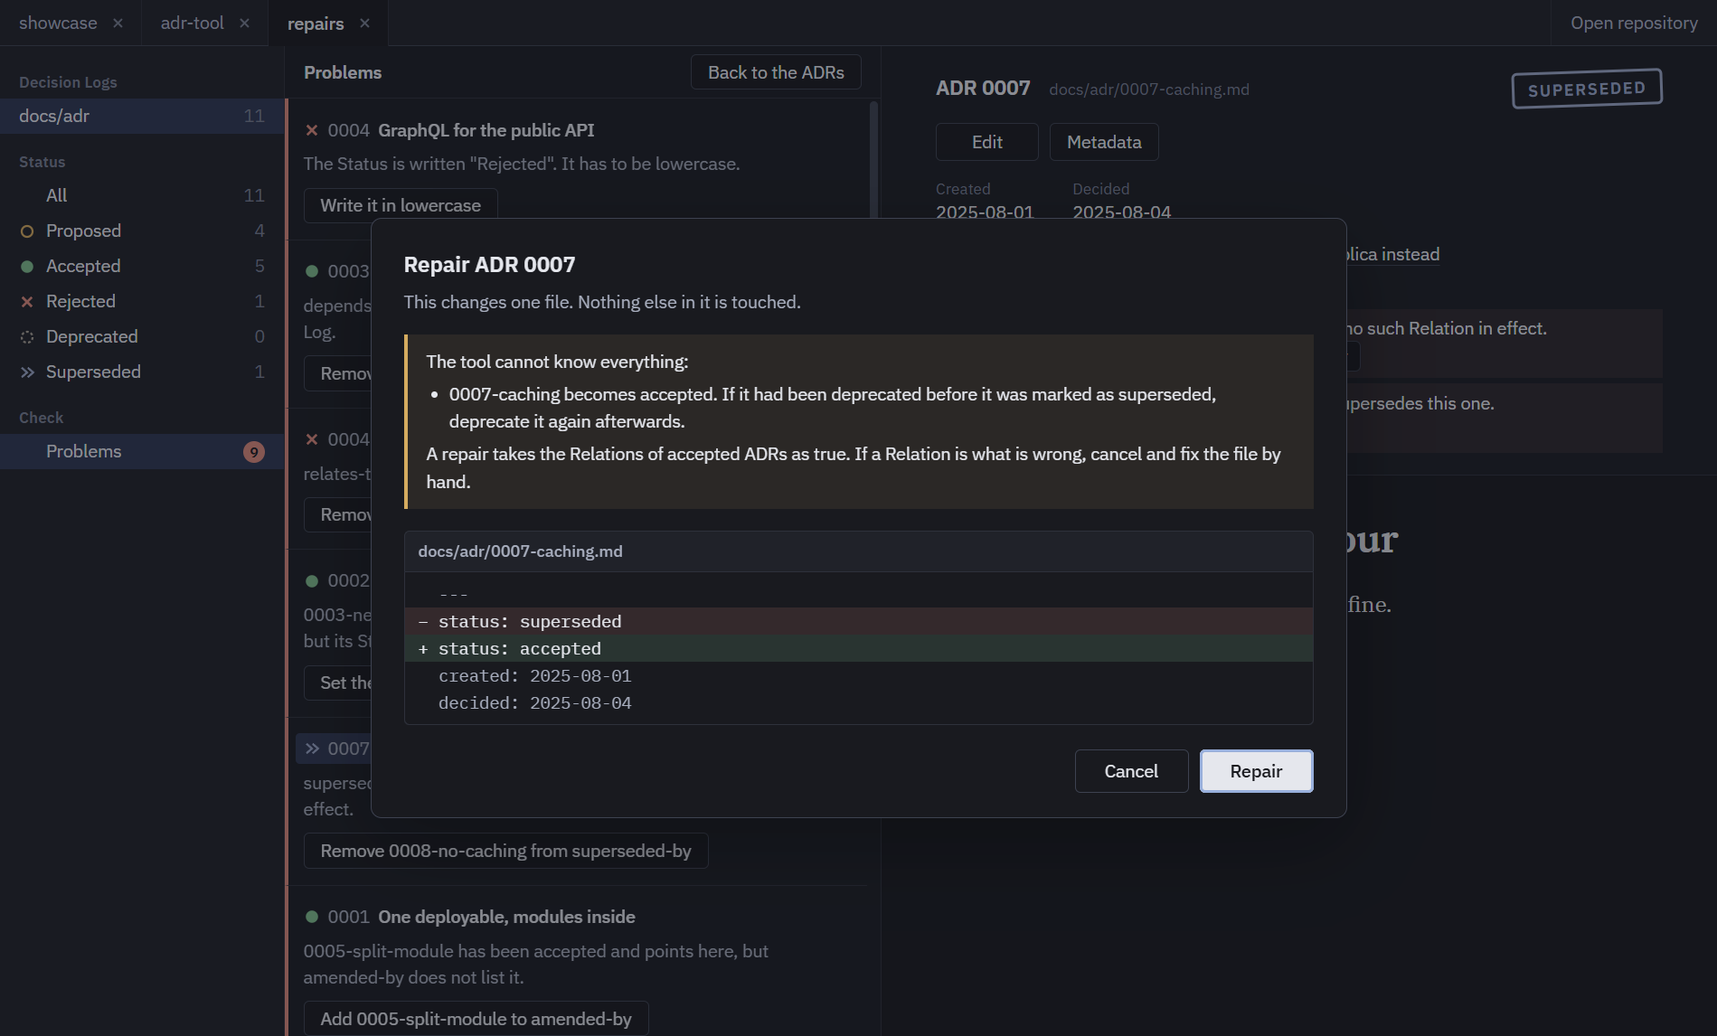
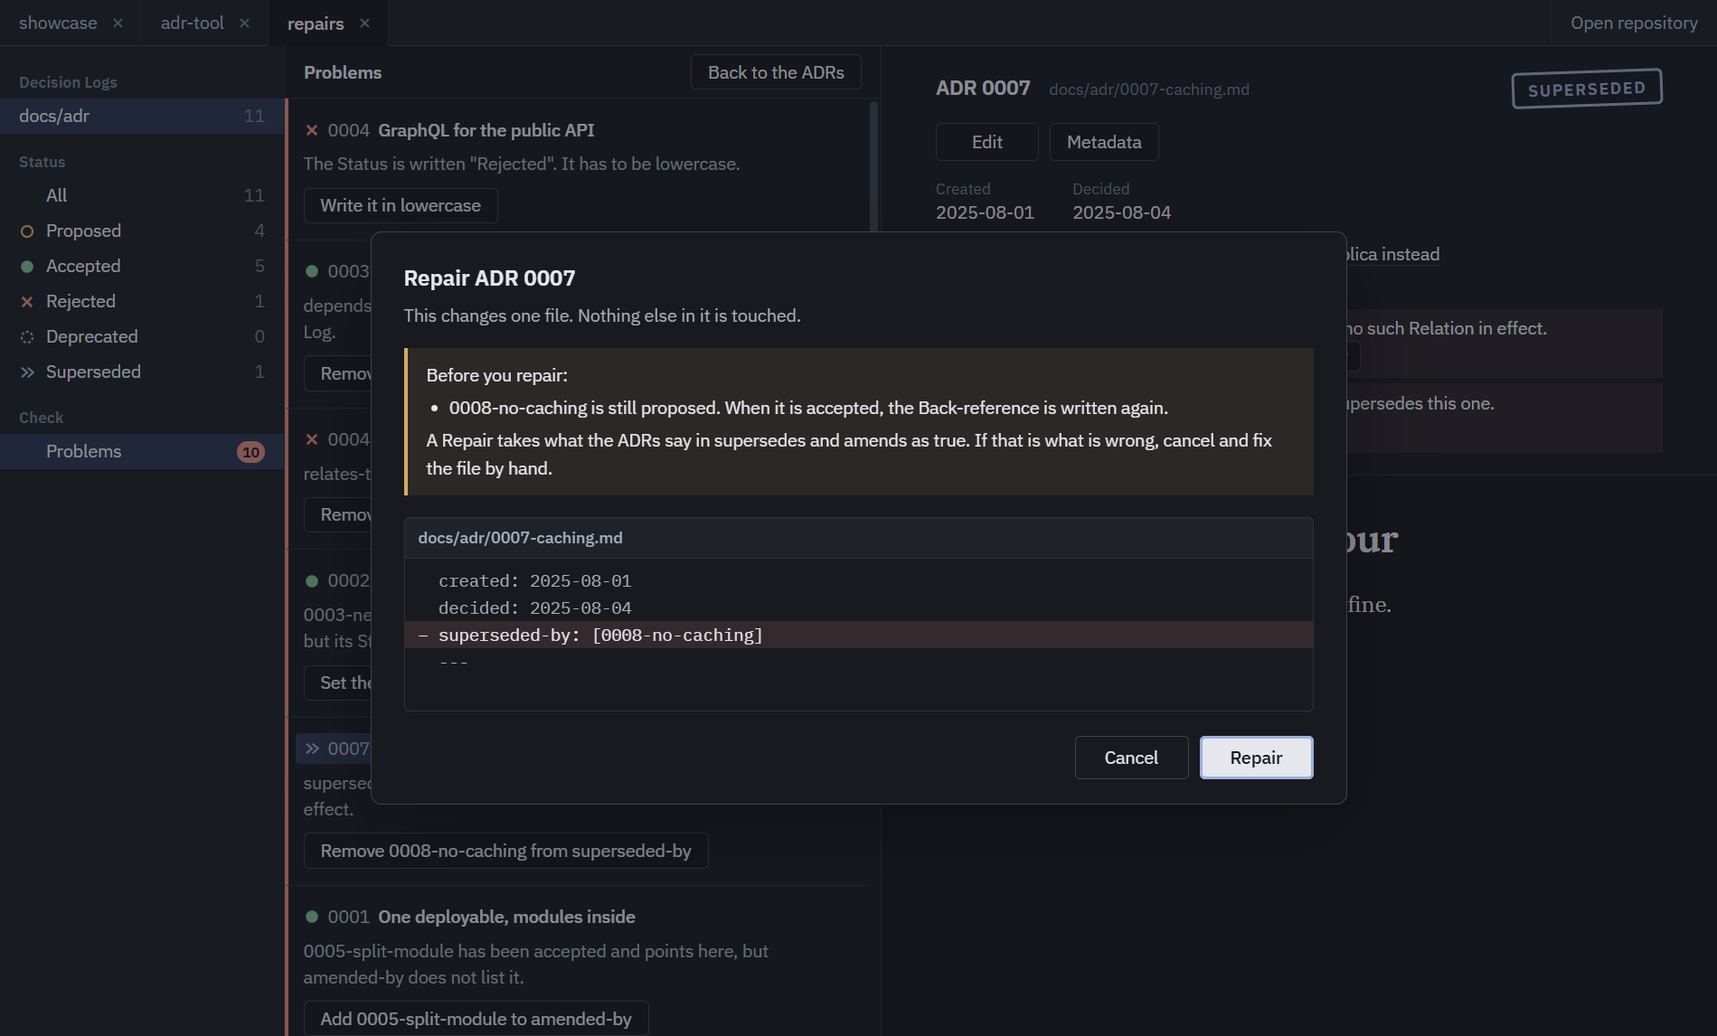
After review: a Repair says what it rests on, and leaves a Status alone that it cannot judge

diff --git a/packages/core/src/lifecycle/repair.ts b/packages/core/src/lifecycle/repair.ts
@@ -1,3 +1,4 @@
+import type { Adr } from '../adr/adr'
 import type { Plan } from '../change/change-set'
 import type { FileSystem } from '../fs/port'
 import type { DecisionLog } from '../log/load'
@@ -5,6 +6,7 @@ import type { MetadataKey } from '../metadata/keys'
 import { addToList, removeFromList, setScalar } from '../metadata/write'
 import { groupProblems } from '../problems/group'
 import type { BackReferenceKey, Problem } from '../problems/problem'
+import { BACK_REFERENCE_KEYS } from '../relation'
 import { plan } from './draft'
 import { planRenumber } from './renumber'
 import { writable } from './rules'
@@ -40,8 +42,8 @@ export type Repair =
   | { readonly kind: 'renumber'; readonly adr: string }
 
 /**
- * The repairs of a Problem. None: the tool cannot know what was meant, a person fixes the
- * file. Several: any one of them repairs the Problem, and the person says which.
+ * The Repairs of a Problem. None: the tool cannot know what was meant, a person fixes the
+ * file. Several: any one of them is a step, and the person says which.
  */
 export function repairsOf(log: DecisionLog, problem: Problem): Repair[] {
   switch (problem.kind) {
@@ -57,12 +59,19 @@ export function repairsOf(log: DecisionLog, problem: Problem): Repair[] {
       ]
     case 'unfounded-back-reference':
       return [{ kind: 'remove-item', adr: problem.adr, key: problem.key, item: problem.source }]
-    case 'not-marked-superseded':
-      return [{ kind: 'set-status', adr: problem.adr, status: 'superseded' }]
+    case 'not-marked-superseded': {
+      // Only what may be superseded is marked so. A Status that is proposed, rejected or
+      // unreadable has a story the tool does not know; a person sorts that out first.
+      const status = log.adrs.find((adr) => adr.id === problem.adr)?.metadata.status
+      return status === 'accepted' || status === 'deprecated'
+        ? [{ kind: 'set-status', adr: problem.adr, status: 'superseded' }]
+        : []
+    }
     case 'superseded-without-successor':
       return [{ kind: 'set-status', adr: problem.adr, status: 'accepted' }]
     case 'supersedes-cycle':
-      // Every Relation that keeps the circle closed; taking out any one of them opens it.
+      // Every Relation between the ADRs of the group. Taking one out opens a circle; where
+      // several circles share ADRs, what is left of them is reported again.
       return log.relations
         .filter(
           ({ type, from, to }) =>
@@ -76,25 +85,25 @@ export function repairsOf(log: DecisionLog, problem: Problem): Repair[] {
   }
 }
 
-const same = (a: Repair, b: Repair): boolean =>
-  a.kind === b.kind &&
-  a.adr === b.adr &&
-  (['key', 'item', 'status'] as const).every(
-    (field) => (a as Record<string, unknown>)[field] === (b as Record<string, unknown>)[field]
-  )
+const same = (a: Repair, b: Repair): boolean => {
+  const [left, right] = [a, b] as Record<string, unknown>[]
+  return Object.keys({ ...left, ...right }).every((field) => left![field] === right![field])
+}
 
 /**
- * Plan a repair. It has to be one of the repairs of a Problem the log has right now, and
+ * Plan a Repair. It has to be one of the Repairs of a Problem the log has right now, and
  * of a Problem that stands on its own: what only follows from a file that cannot be read
- * is not repaired, the file is.
+ * is not repaired, the file is. What is planned is the Repair as `core` offers it, never
+ * the object that was handed in.
  */
-export async function planRepair(fs: FileSystem, log: DecisionLog, repair: Repair): Promise<Plan> {
-  const offers = (problem: Problem): boolean =>
-    repairsOf(log, problem).some((candidate) => same(candidate, repair))
+export async function planRepair(fs: FileSystem, log: DecisionLog, asked: Repair): Promise<Plan> {
+  const offered = (problem: Problem): Repair | undefined =>
+    repairsOf(log, problem).find((candidate) => same(candidate, asked))
 
   const groups = groupProblems(log)
-  if (!groups.some(({ problem }) => offers(problem))) {
-    const root = groups.find(({ consequences }) => consequences.some(offers))?.problem
+  const repair = groups.map(({ problem }) => offered(problem)).find(Boolean)
+  if (!repair) {
+    const root = groups.find(({ consequences }) => consequences.some(offered))?.problem
     return {
       ok: false,
       reason:
@@ -121,12 +130,46 @@ export async function planRepair(fs: FileSystem, log: DecisionLog, repair: Repai
       }
     })
   })
+  const warnings = premiseOf(log, repair)
+  return planned.ok && warnings.length > 0 ? { ...planned, warnings } : planned
+}
 
-  if (!planned.ok || repair.kind !== 'set-status' || repair.status !== 'accepted') return planned
-  return {
-    ...planned,
-    warnings: [
+/**
+ * What a Repair rests on, where that is another ADR's word: taking a Back-reference out, or
+ * the `superseded` Status back, is only right if the other ADR is right. The preview says
+ * what the other ADR says, so that a successor that needs fixing is not mistaken for a
+ * stale Back-reference.
+ */
+function premiseOf(log: DecisionLog, repair: Repair): string[] {
+  if (repair.kind === 'set-status' && repair.status === 'accepted') {
+    return [
       `${repair.adr} becomes accepted. If it had been deprecated before it was marked as superseded, deprecate it again afterwards.`
     ]
   }
+  if (repair.kind !== 'remove-item') return []
+  const type = (Object.keys(BACK_REFERENCE_KEYS) as (keyof typeof BACK_REFERENCE_KEYS)[]).find(
+    (relation) => BACK_REFERENCE_KEYS[relation] === repair.key
+  )
+  const source: Adr | undefined = log.adrs.find((adr) => adr.id === repair.item)
+  if (!type || !source || source.id === repair.adr) return []
+
+  const { status, rawStatus, relations } = source.metadata
+  if (status === undefined) {
+    return [
+      `The Status of ${source.id} cannot be read ("${rawStatus}"). If that ADR has been accepted, cancel and fix its Status instead: the Back-reference is right then.`
+    ]
+  }
+  if (!relations[type].includes(repair.adr)) {
+    return [
+      `${source.id} does not name ${repair.adr} in ${type}. If it should, cancel and add it to ${source.id} by hand: the Back-reference is right then.`
+    ]
+  }
+  if (status === 'proposed') {
+    return [
+      `${source.id} is still proposed. When it is accepted, the Back-reference is written again.`
+    ]
+  }
+  return status === 'rejected'
+    ? [`${source.id} was rejected: its Relations never take effect.`]
+    : []
 }

diff --git a/packages/core/test/repair.test.ts b/packages/core/test/repair.test.ts
@@ -105,13 +105,48 @@ describe('the repair of a Problem', () => {
   })
 
   it('takes out a Back-reference that has no Relation in effect behind it', async () => {
-    const { changes } = await repairOnly({
+    const { plan, changes } = await repairOnly({
       '0001-base': adr('status: accepted', 'amended-by: [0002-more]'),
       '0002-more': adr('status: proposed', 'amends: [0001-base]')
     })
     expect(changes).toEqual({
       '0001-base.md': { removed: ['amended-by: [0002-more]\n'], added: [] }
     })
+    expect(plan.ok && plan.warnings).toEqual([
+      '0002-more is still proposed. When it is accepted, the Back-reference is written again.'
+    ])
+  })
+
+  it('says why the Back-reference has nothing behind it, so that a broken successor is noticed', async () => {
+    const premise = async (...successor: string[]): Promise<readonly string[] | undefined> => {
+      const { fs, log } = await repository({
+        '0001-base': adr('status: accepted', 'amended-by: [0002-more]'),
+        '0002-more': adr(...successor)
+      })
+      const problem = log.problems.find(({ kind }) => kind === 'unfounded-back-reference')!
+      const plan = await planRepair(fs, log, repairsOf(log, problem)[0]!)
+      return plan.ok ? plan.warnings : [plan.reason]
+    }
+    expect(await premise('status: rejected', 'amends: [0001-base]')).toEqual([
+      '0002-more was rejected: its Relations never take effect.'
+    ])
+    expect(await premise('status: acepted', 'amends: [0001-base]')).toEqual([
+      'The Status of 0002-more cannot be read ("acepted"). If that ADR has been accepted, cancel and fix its Status instead: the Back-reference is right then.'
+    ])
+    expect(await premise('status: accepted')).toEqual([
+      '0002-more does not name 0001-base in amends. If it should, cancel and add it to 0002-more by hand: the Back-reference is right then.'
+    ])
+  })
+
+  it('does not mark an ADR as superseded whose Status is not one that can be superseded', async () => {
+    for (const status of ['proposed', 'rejected', 'acepted']) {
+      const { log } = await repository({
+        '0001-old': adr(`status: ${status}`, 'superseded-by: [0002-new]'),
+        '0002-new': adr('status: accepted', 'supersedes: [0001-old]')
+      })
+      const problem = log.problems.find(({ kind }) => kind === 'not-marked-superseded')!
+      expect(repairsOf(log, problem)).toEqual([])
+    }
   })
 
   it('marks the target of a supersedes Relation in effect as superseded', async () => {
@@ -254,13 +289,40 @@ describe('a deliberately broken Decision Log', () => {
       'unfounded-back-reference',
       'unknown-target'
     ])
-    // The bodies, and everything the repairs were not about, are what they were.
-    for (const name of names.filter((name) => !name.startsWith('0006-'))) {
-      const [before, after] = [
-        fixture(`broken/docs/adr/${name}`),
-        await fs.readText(`docs/adr/${name}`)
-      ]
-      expect(after!.slice(after!.indexOf('\n---'))).toBe(before.slice(before.indexOf('\n---')))
+    // Byte for byte: every file is what it was, but for the lines the repairs were about.
+    const rewritten: Record<string, [from: string, to: string][]> = {
+      '0001-foundation.md': [
+        ['tags: [structure]\n', 'tags: [structure]\namended-by: [0005-split-module]\n']
+      ],
+      '0002-old-database.md': [
+        ['status: accepted # nobody updated this\n', 'status: superseded # nobody updated this\n']
+      ],
+      // The file with CRLF line endings and a foreign key: a line changed, a line inserted.
+      '0003-new-database.md': [
+        [
+          "depends-on: [0001-foundation, '0042-never-written']\r\n",
+          'depends-on: [0001-foundation]\r\namended-by: [0005-split-module]\r\n'
+        ]
+      ],
+      '0004-api-style.md': [
+        ['status: "Rejected"\n', 'status: "rejected"\n'],
+        ['relates-to:\n  - 0004-api-style\n', '']
+      ],
+      '0007-caching.md': [
+        ['status: superseded\n', 'status: accepted\n'],
+        ['superseded-by: [0008-no-caching]\n', '']
+      ],
+      '0009-queue.md': [['supersedes: [0010-cron]\n', '']]
     }
+    for (const name of names) {
+      let expected = fixture(`broken/docs/adr/${name}`)
+      for (const [from, to] of rewritten[name] ?? []) {
+        expect(expected).toContain(from)
+        expected = expected.replace(from, to)
+      }
+      const now = name === '0006-export.md' ? '0011-export.md' : name
+      expect(await fs.readText(`docs/adr/${now}`), name).toBe(expected)
+    }
+    expect(await fs.readText('docs/adr/0006-export.md')).toBeUndefined()
   })
 })

diff --git a/packages/app/src/renderer/src/lib/state.svelte.ts b/packages/app/src/renderer/src/lib/state.svelte.ts
@@ -60,9 +60,9 @@ const TEXT_STAYS: Caution = {
 }
 
 const RELATION_IS_AUTHORITATIVE: Caution = {
-  lead: 'The tool cannot know everything:',
+  lead: 'Before you repair:',
   advice:
-    'A repair takes the Relations of accepted ADRs as true. If a Relation is what is wrong, cancel and fix the file by hand.'
+    'A Repair takes what the ADRs say in supersedes and amends as true. If that is what is wrong, cancel and fix the file by hand.'
 }
 
 /** What a decision is called on its button, and again on the button that confirms it. */
@@ -290,7 +290,11 @@ class AppState {
     const [tab, log] = [this.active, this.log]
     const adr = log?.adrs.find((candidate) => candidate.id === repair.adr)
     if (!tab || !log || !adr) return
-    const renumbers = repair.kind === 'renumber'
+    // A Renumber is known by its own name, and warns about something else.
+    const [verb, caution] =
+      repair.kind === 'renumber'
+        ? (['Renumber', TEXT_STAYS] as const)
+        : (['Repair', RELATION_IS_AUTHORITATIVE] as const)
     const plan = await window.api.planRepair({
       repositoryId: tab.repository.id,
       logPath: log.path,
@@ -299,15 +303,15 @@ class AppState {
     this.review = plan.ok
       ? {
           kind: 'change',
-          title: `${renumbers ? 'Renumber' : 'Repair'} ADR ${prefixOf(adr)}`,
-          action: renumbers ? 'Renumber' : 'Repair',
+          title: `${verb} ADR ${prefixOf(adr)}`,
+          action: verb,
           change: plan.change,
           applying: false,
-          caution: renumbers ? TEXT_STAYS : RELATION_IS_AUTHORITATIVE
+          caution
         }
       : {
           kind: 'refused',
-          title: `Cannot ${renumbers ? 'renumber' : 'repair'} ADR ${prefixOf(adr)}`,
+          title: `Cannot ${verb.toLowerCase()} ADR ${prefixOf(adr)}`,
           reason: plan.reason
         }
   }

diff --git a/packages/app/src/renderer/src/lib/wording.ts b/packages/app/src/renderer/src/lib/wording.ts
@@ -75,7 +75,7 @@ export function prefixOf(adr: Adr): string {
   return `${digits.slice(0, 4)}-${digits.slice(4, 6)}-${digits.slice(6)}`
 }
 
-/** What a repair is called on its button, and again on the button that confirms it. */
+/** What a Repair is called on its button: what it writes, in a few words. */
 export function repairLabel(repair: Repair, log: DecisionLog): string {
   switch (repair.kind) {
     case 'lowercase-status':
@@ -91,7 +91,7 @@ export function repairLabel(repair: Repair, log: DecisionLog): string {
   }
 }
 
-/** Under a Problem that has no repair. */
+/** Under a Problem that has no Repair. */
 export const NO_REPAIR =
   'The tool cannot know what was meant here. Fix the frontmatter of the file in an editor; the view follows.'
 

diff --git a/docs/file-format.md b/docs/file-format.md
@@ -124,23 +124,24 @@ Two branches that each added "the next ADR" leave a `sequential` Decision Log wi
 
 ### Repairs
 
-Some Problems have a repair. A repair is an operation like any other: it is planned, shown as a diff, and writes exactly the lines below. Every repair follows one rule — **the Relation is authoritative**: what an ADR that has been accepted says in `supersedes` and `amends` is taken as true, and Back-references and the `superseded` Status are made to fit it.
+Some Problems have a Repair. A Repair is an operation like any other: it is planned, shown as a diff, and writes exactly the lines below. Every Repair follows one rule — **the Relation is authoritative**: what an ADR that has been accepted says in `supersedes` and `amends` is taken as true, and Back-references and the `superseded` Status are made to fit it.
 
-| Problem | The repair writes |
+| Problem | The Repair writes |
 | ------- | ----------------- |
 | The Status is not written in lowercase | the Status in lowercase; its quoting stays |
 | A Relation or Back-reference names an ID that is not in the Decision Log, or the ADR's own ID | the item is taken out of its list, where it stands |
 | A Back-reference is missing | the ID is added to `superseded-by` or `amended-by` of the target |
 | A Back-reference without a Relation in effect behind it | the item is taken out of `superseded-by` or `amended-by` |
-| The target of a `supersedes` Relation in effect is not `superseded` | `status: superseded` on the target |
+| The target of a `supersedes` Relation in effect is not `superseded` | `status: superseded` on the target — if its Status is `accepted` or `deprecated`, which is what may be superseded. Any other Status, or one that cannot be read, is a person's to sort out first |
 | An ADR is `superseded`, but no ADR that has been accepted supersedes it | `status: accepted`. The tool cannot know whether the ADR was `deprecated` before; the preview says so, and Deprecate is one step away |
-| A cycle of `supersedes` Relations | one `supersedes` item of the cycle is taken out; the person says which. What that Relation had caused on its target — the Back-reference, the `superseded` Status — is a Problem of its own afterwards, with its own repair |
+| A cycle of `supersedes` Relations | one `supersedes` item of the cycle is taken out; the person says which. What that Relation had caused on its target — the Back-reference, the `superseded` Status — is a Problem of its own afterwards, with its own Repair. Where several cycles share ADRs, what is left of them is reported again |
 | Two ADRs with the same number | Renumber of one of them; the person says which |
 
-- One repair repairs one Problem and is previewed on its own. There is no "repair everything".
-- When the Relation is what is wrong — the successor forgot its `supersedes`, say — the repair is the wrong tool: `supersedes` and `amends` of an ADR that is no longer `proposed` are changed by hand, in the file.
-- No repair for Metadata that breaks section 2 or 3 otherwise — frontmatter that cannot be read, a malformed date, a Status outside the five values, a value of the wrong type: the tool cannot know what was meant. A person fixes the file.
-- A Problem that is only reported because another ADR's frontmatter cannot be read has no repair: the unreadable file is fixed first. A repair that would write into an ADR whose frontmatter cannot be read is refused.
+- Taking a Back-reference out, or the `superseded` Status back, rests on what the other ADR says right now. The preview says what that is — the other ADR is still `proposed`, was `rejected`, has a Status that cannot be read, or does not name this one — so that a person can tell a stale Back-reference from a successor that needs fixing.
+- One Repair repairs one Problem and is previewed on its own. There is no "repair everything".
+- When the Relation is what is wrong — the successor forgot its `supersedes`, say — the Repair is the wrong tool: `supersedes` and `amends` of an ADR that is no longer `proposed` are changed by hand, in the file.
+- No Repair for Metadata that breaks section 2 or 3 otherwise — frontmatter that cannot be read, a malformed date, a Status outside the five values, a value of the wrong type: the tool cannot know what was meant. A person fixes the file.
+- A Problem that is only reported because another ADR's frontmatter cannot be read has no Repair: the unreadable file is fixed first. A Repair that would write into an ADR whose frontmatter cannot be read is refused.
 
 ## 6. Finding Decision Logs
 

diff --git a/docs/plan.md b/docs/plan.md
@@ -121,7 +121,7 @@ One broken file must not drown the view: when an ADR's frontmatter cannot be rea
 
 Part 1: the Problems view. The sidebar counts the Problems of the Decision Log in view; the view lists each one with the ADRs it is reported on, and the one repair that exists so far — Renumber — sits next to the ADR it would move. Root causes are `core`'s business (`groupProblems`): an ADR whose frontmatter cannot be read is read as if it had none, so a missing or unfounded Back-reference, a `superseded` Status without a successor or one that is not set, reported between it and another ADR, is shown under the unreadable file and not counted. The other ADR's detail still shows such a Problem, and says which file it follows from. A duplicate number is never a consequence: the file name carries the number.
 
-Part 2: repairs. What each one writes is specified in [file-format.md, section 5, "Repairs"](file-format.md#repairs), under one rule: the Relation is authoritative. `core` offers the repairs of a Problem (`repairsOf`) and plans one (`planRepair`) only if the log, read afresh, still has a Problem that offers it and that Problem does not merely follow from an unreadable file — so the renderer can ask for nothing `core` would not have offered. Renumber is one repair among the others and goes the same way. A Problem without a repair (frontmatter that cannot be read, a malformed date, a Status outside the five values) says that a person has to fix the file. This half of the done-when is `packages/core/test/repair.test.ts` on the fixture `broken`, and was clicked through in the running app on a scratch git repository: nine Problems, nine repairs, each `git diff` one or two lines of one file — or one rename — with the quoting, the comments and the CRLF line endings of the files untouched.
+Part 2: repairs. What each one writes is specified in [file-format.md, section 5, "Repairs"](file-format.md#repairs), under one rule: the Relation is authoritative. `core` offers the repairs of a Problem (`repairsOf`) and plans one (`planRepair`) only if the log, read afresh, still has a Problem that offers it and that Problem does not merely follow from an unreadable file — so the renderer can ask for nothing `core` would not have offered. Renumber is one repair among the others and goes the same way. A Problem without a repair (frontmatter that cannot be read, a malformed date, a Status outside the five values) says that a person has to fix the file. This half of the done-when is `packages/core/test/repair.test.ts` on the fixture `broken`, and was clicked through in the running app on a scratch git repository: ten Problems, ten Repairs, each `git diff` one or two lines of one file — or one rename — with the quoting, the comments and the CRLF line endings of the files untouched.
 
 Known gap: grouping is about frontmatter that cannot be read at all. A file that can be read but has a Status outside the five values voids its Relations, and what that causes on other ADRs is still listed Problem by Problem.
 

diff --git a/CONTEXT.md b/CONTEXT.md
@@ -67,8 +67,12 @@ _Avoid_: Backlink, inverse Relation, reverse link
 ### Housekeeping
 
 **Problem**:
-An inconsistency in a Decision Log that the tool detects and names — invalid Metadata, a Relation to an ADR that does not exist, a missing Back-reference, a duplicate number. Some Problems have a repair.
+An inconsistency in a Decision Log that the tool detects and names — invalid Metadata, a Relation to an ADR that does not exist, a missing Back-reference, a duplicate number. Some Problems have a Repair.
 _Avoid_: Error, warning, issue, finding
+
+**Repair**:
+An operation the tool offers for a Problem, which writes the one thing that makes the Problem go away — always taking the Relation as authoritative, never the Back-reference or the `superseded` Status. A Problem has no Repair where the tool cannot know what was meant; a person fixes the file then.
+_Avoid_: Fix, quick fix, auto-fix
 
 **Renumber**:
 To give an ADR a new number after two ADRs in one Decision Log ended up with the same one, renaming its file and rewriting every Relation and Back-reference that points to it.

diff --git a/packages/core/test/fixtures/broken/docs/adr/0005-split-module.md b/packages/core/test/fixtures/broken/docs/adr/0005-split-module.md
@@ -2,7 +2,7 @@
 status: accepted
 created: 2025-06-01
 decided: 2025-06-08
-amends: [0001-foundation]
+amends: [0001-foundation, 0003-new-database]
 ---
 
 # Notifications run on their own
